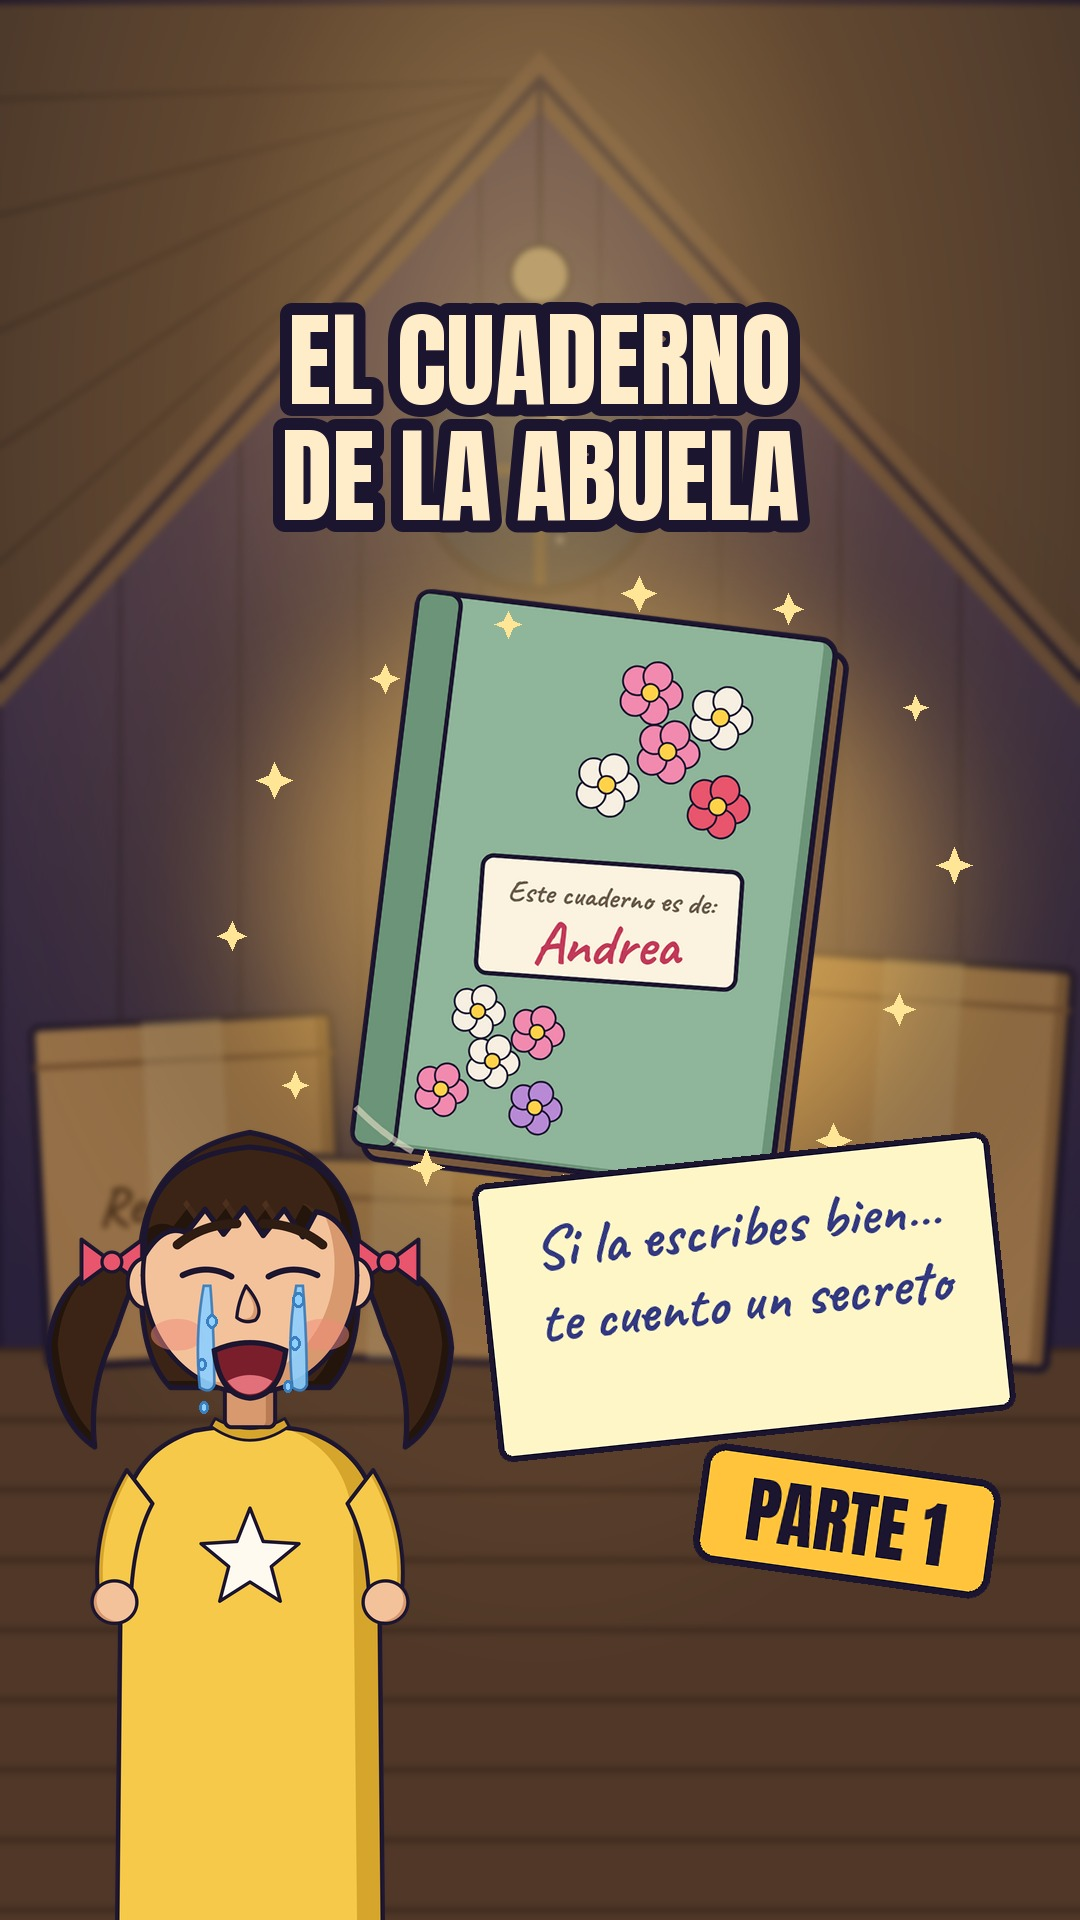
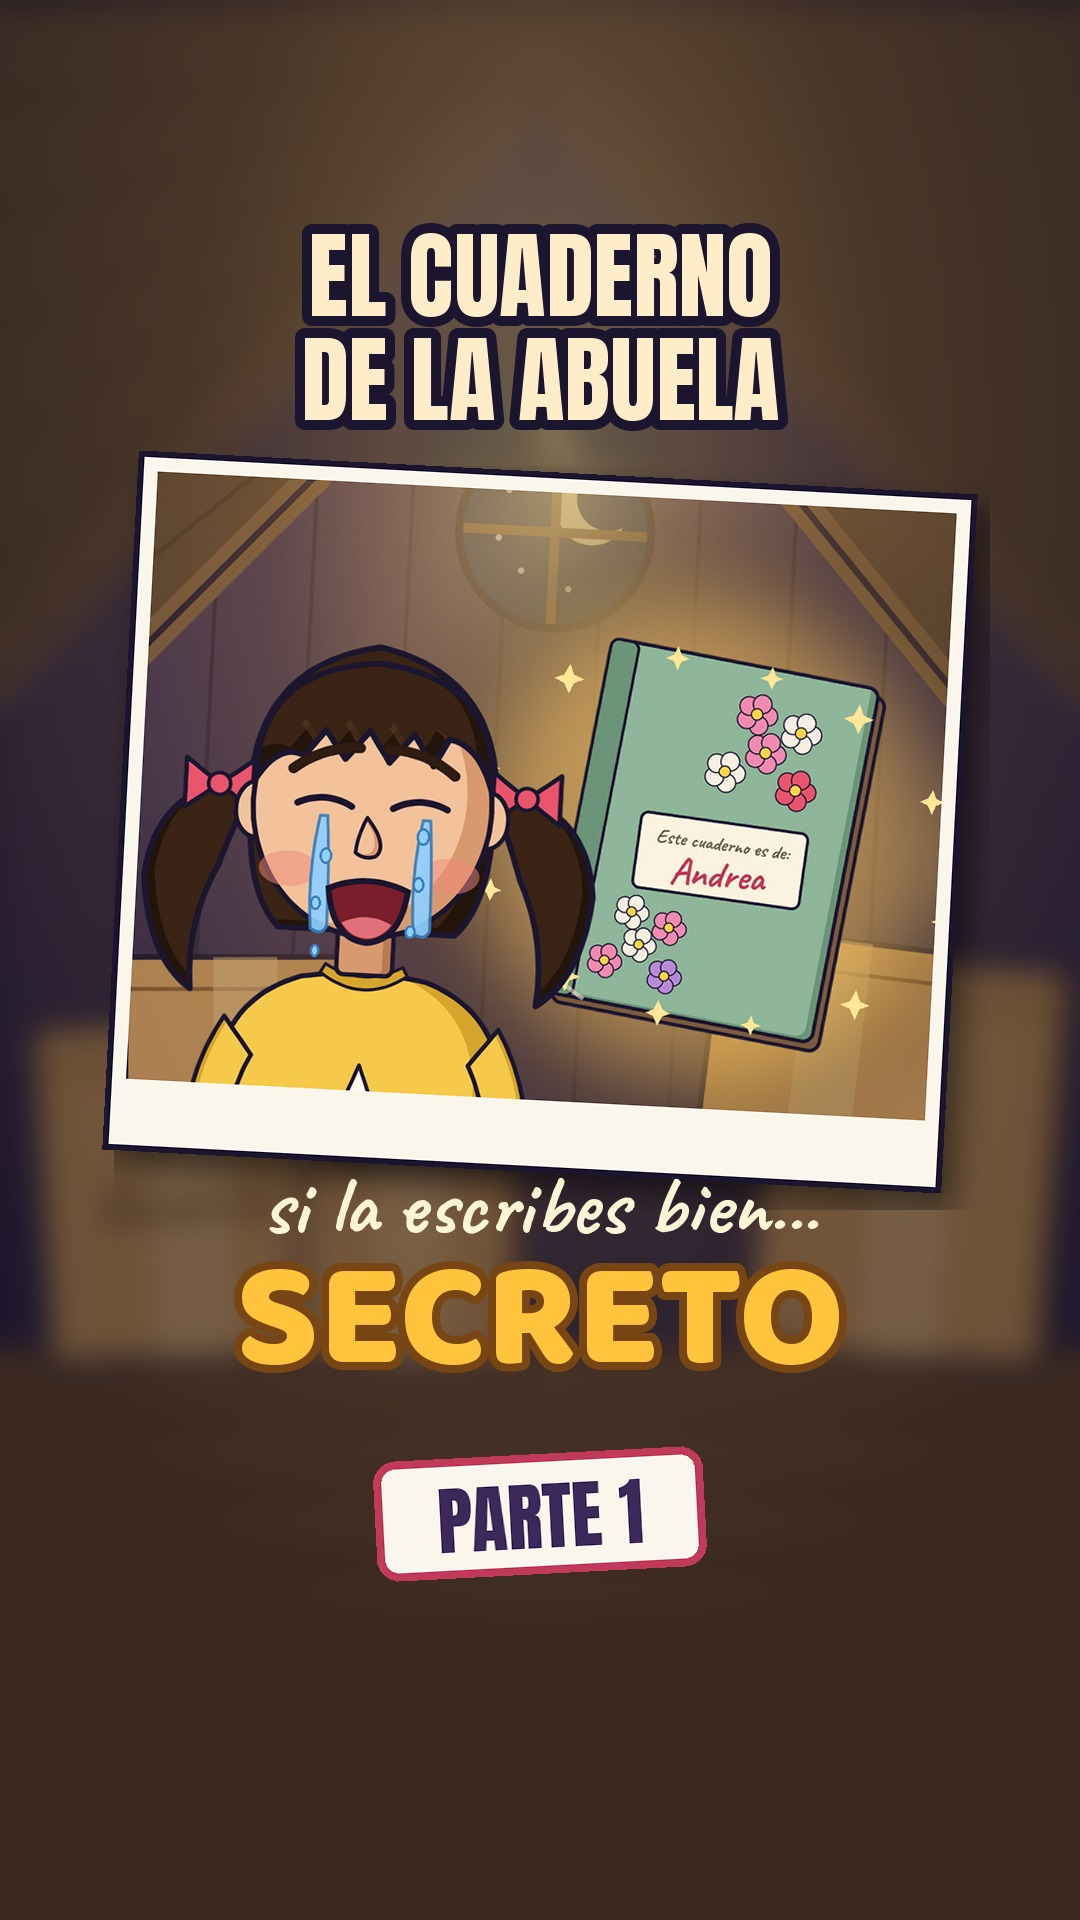
Cuaderno P1: portada al estilo de las de Mateo (3:4 subido)

diff --git a/cuaderno-pov/portada.py b/cuaderno-pov/portada.py
@@ -1,27 +1,44 @@
-"""Portada de "El cuaderno de la abuela" (9:16, diseño centrado en la zona segura 3:4)."""
+"""Portada de "El cuaderno de la abuela" (9:16). Como en Mateo: todo lo importante en el 3:4 central subido
+(y 160..1600), apilado y centrado; la parte de abajo queda libre para la interfaz de TikTok."""
 import os, sys, math
 import render1 as V
 from PIL import Image, ImageDraw, ImageFilter
-R = V.R; W, H = 1080, 1920
-def portada(parte, frase, out):
-    c = R.layer("bg_desvan").resize((W, H)).filter(ImageFilter.GaussianBlur(3)).copy(); R.dark(c, 70)
-    glow = Image.new("RGBA", (W, H), (0, 0, 0, 0)); ImageDraw.Draw(glow).ellipse((200, 540, 1000, 1260), fill=(255, 200, 90, 120))
-    c.alpha_composite(glow.filter(ImageFilter.GaussianBlur(90)))
-    R.put(c, "cuaderno", 600, 900, .62, rot=-7)
-    V.brillos(c, 1.0, 0, 600, 900, 330, (255, 230, 150), 14)
-    # nota escrita a mano sobre el cuaderno
-    lay = Image.new("RGBA", (520, 280), (0, 0, 0, 0)); d = ImageDraw.Draw(lay)
-    d.rounded_rectangle((0, 0, 519, 279), 14, fill=(255, 246, 200), outline=V.OL, width=6)
-    for i, l in enumerate(frase): d.text((260, 70 + i * 74), l, font=V.font(V.F_HAND, 60), fill=V.TINTA, anchor="mm")
-    lay = lay.rotate(6, expand=True, resample=Image.BICUBIC); c.alpha_composite(lay, (470, 1130))
-    V.sofia(c, "llora", 250, 1330, .56, 0.5); V.lagrimas(c, 250, 1330, .56, 0.5)
+R = V.R; W, H = 1080, 1920; OY = 160
+
+def escena_foto(llora=True):
+    s = R.layer("bg_desvan").resize((W, H)).copy(); R.dark(s, 40)
+    gl = Image.new("RGBA", (W, H), (0, 0, 0, 0)); ImageDraw.Draw(gl).ellipse((420, 500, 1080, 1200), fill=(255, 200, 90, 130))
+    s.alpha_composite(gl.filter(ImageFilter.GaussianBlur(70)))
+    R.put(s, "cuaderno", 760, 850, .5, rot=-8); V.brillos(s, 1.0, 0, 760, 850, 260, (255, 230, 150), 12)
+    V.sofia(s, "llora" if llora else "timido", 330, 900, .78, 0.5)
+    if llora: V.lagrimas(s, 330, 900, .78, 0.5)
+    return s.crop((40, 420, 1040, 1180))   # 1000 x 760
+
+def portada(parte, frase, palabra, out, rot=-3):
+    c = R.layer("bg_desvan").resize((W, H)).filter(ImageFilter.GaussianBlur(14)).copy(); R.dark(c, 120)
     d = ImageDraw.Draw(c)
-    for i, (t, sz) in enumerate((("EL CUADERNO", 104), ("DE LA ABUELA", 104))):
-        d.text((540, 360 + i * 116), t, font=V.font(V.F_ANTON, sz), fill=(255, 236, 200), anchor="mm", stroke_width=12, stroke_fill=V.OL)
-    st = Image.new("RGBA", (300, 120), (0, 0, 0, 0)); ds = ImageDraw.Draw(st)
-    ds.rounded_rectangle((0, 0, 299, 119), 22, fill=V.ORO, outline=V.OL, width=7)
-    ds.text((150, 61), f"PARTE {parte}", font=V.font(V.F_ANTON, 72), fill=V.OL, anchor="mm")
-    st = st.rotate(-8 if parte % 2 else 8, expand=True, resample=Image.BICUBIC); c.alpha_composite(st, (690, 1440))
+    # título
+    for i, t in enumerate(("EL CUADERNO", "DE LA ABUELA")):
+        d.text((540, OY + 115 + i * 104), t, font=V.font(V.F_ANTON, 96), fill=(255, 236, 200), anchor="mm", stroke_width=10, stroke_fill=V.OL)
+    # foto con marco (como la polaroid de Mateo)
+    foto = escena_foto().resize((800, 608))
+    pol = Image.new("RGBA", (840, 700), (250, 246, 236, 255)); pol.alpha_composite(foto, (20, 20))
+    ImageDraw.Draw(pol).rectangle((0, 0, 839, 699), outline=V.OL, width=6)
+    pol = pol.rotate(rot, expand=True, resample=Image.BICUBIC)
+    sh = Image.new("RGBA", pol.size, (0, 0, 0, 0)); sh.putalpha(pol.getchannel("A").point(lambda v: v // 2))
+    c.alpha_composite(sh.filter(ImageFilter.GaussianBlur(14)), (int(540 - pol.width / 2 + 12), OY + 290 + 16))
+    c.alpha_composite(pol, (int(540 - pol.width / 2), OY + 290))
+    d = ImageDraw.Draw(c)
+    # frase a mano + palabra grande dorada
+    d.text((540, OY + 1045), frase, font=V.font(V.F_HAND, 84), fill=(255, 244, 214), anchor="mm")
+    d.text((540, OY + 1160), palabra, font=V.font(V.F_BAL, 150), fill=V.ORO, anchor="mm", stroke_width=8, stroke_fill=(120, 70, 20))
+    # sello PARTE N
+    st = Image.new("RGBA", (330, 120), (0, 0, 0, 0)); ds = ImageDraw.Draw(st)
+    ds.rounded_rectangle((0, 0, 329, 119), 22, fill=(250, 246, 236), outline=(194, 58, 90), width=8)
+    ds.text((165, 62), f"PARTE {parte}", font=V.font(V.F_ANTON, 74), fill=(60, 40, 90), anchor="mm")
+    st = st.rotate(3 if parte % 2 else -3, expand=True, resample=Image.BICUBIC)
+    c.alpha_composite(st, (int(540 - st.width / 2), OY + 1285))
     c.convert("RGB").save(out, quality=92)
+
 if __name__ == "__main__":
-    portada(1, ["Si la escribes bien…", "te cuento un secreto"], os.path.join(V.HERE, "portada_cuaderno_parte1_9x16.jpg"))
+    portada(1, "si la escribes bien...", "SECRETO", os.path.join(V.HERE, "portada_cuaderno_parte1_9x16.jpg"))
